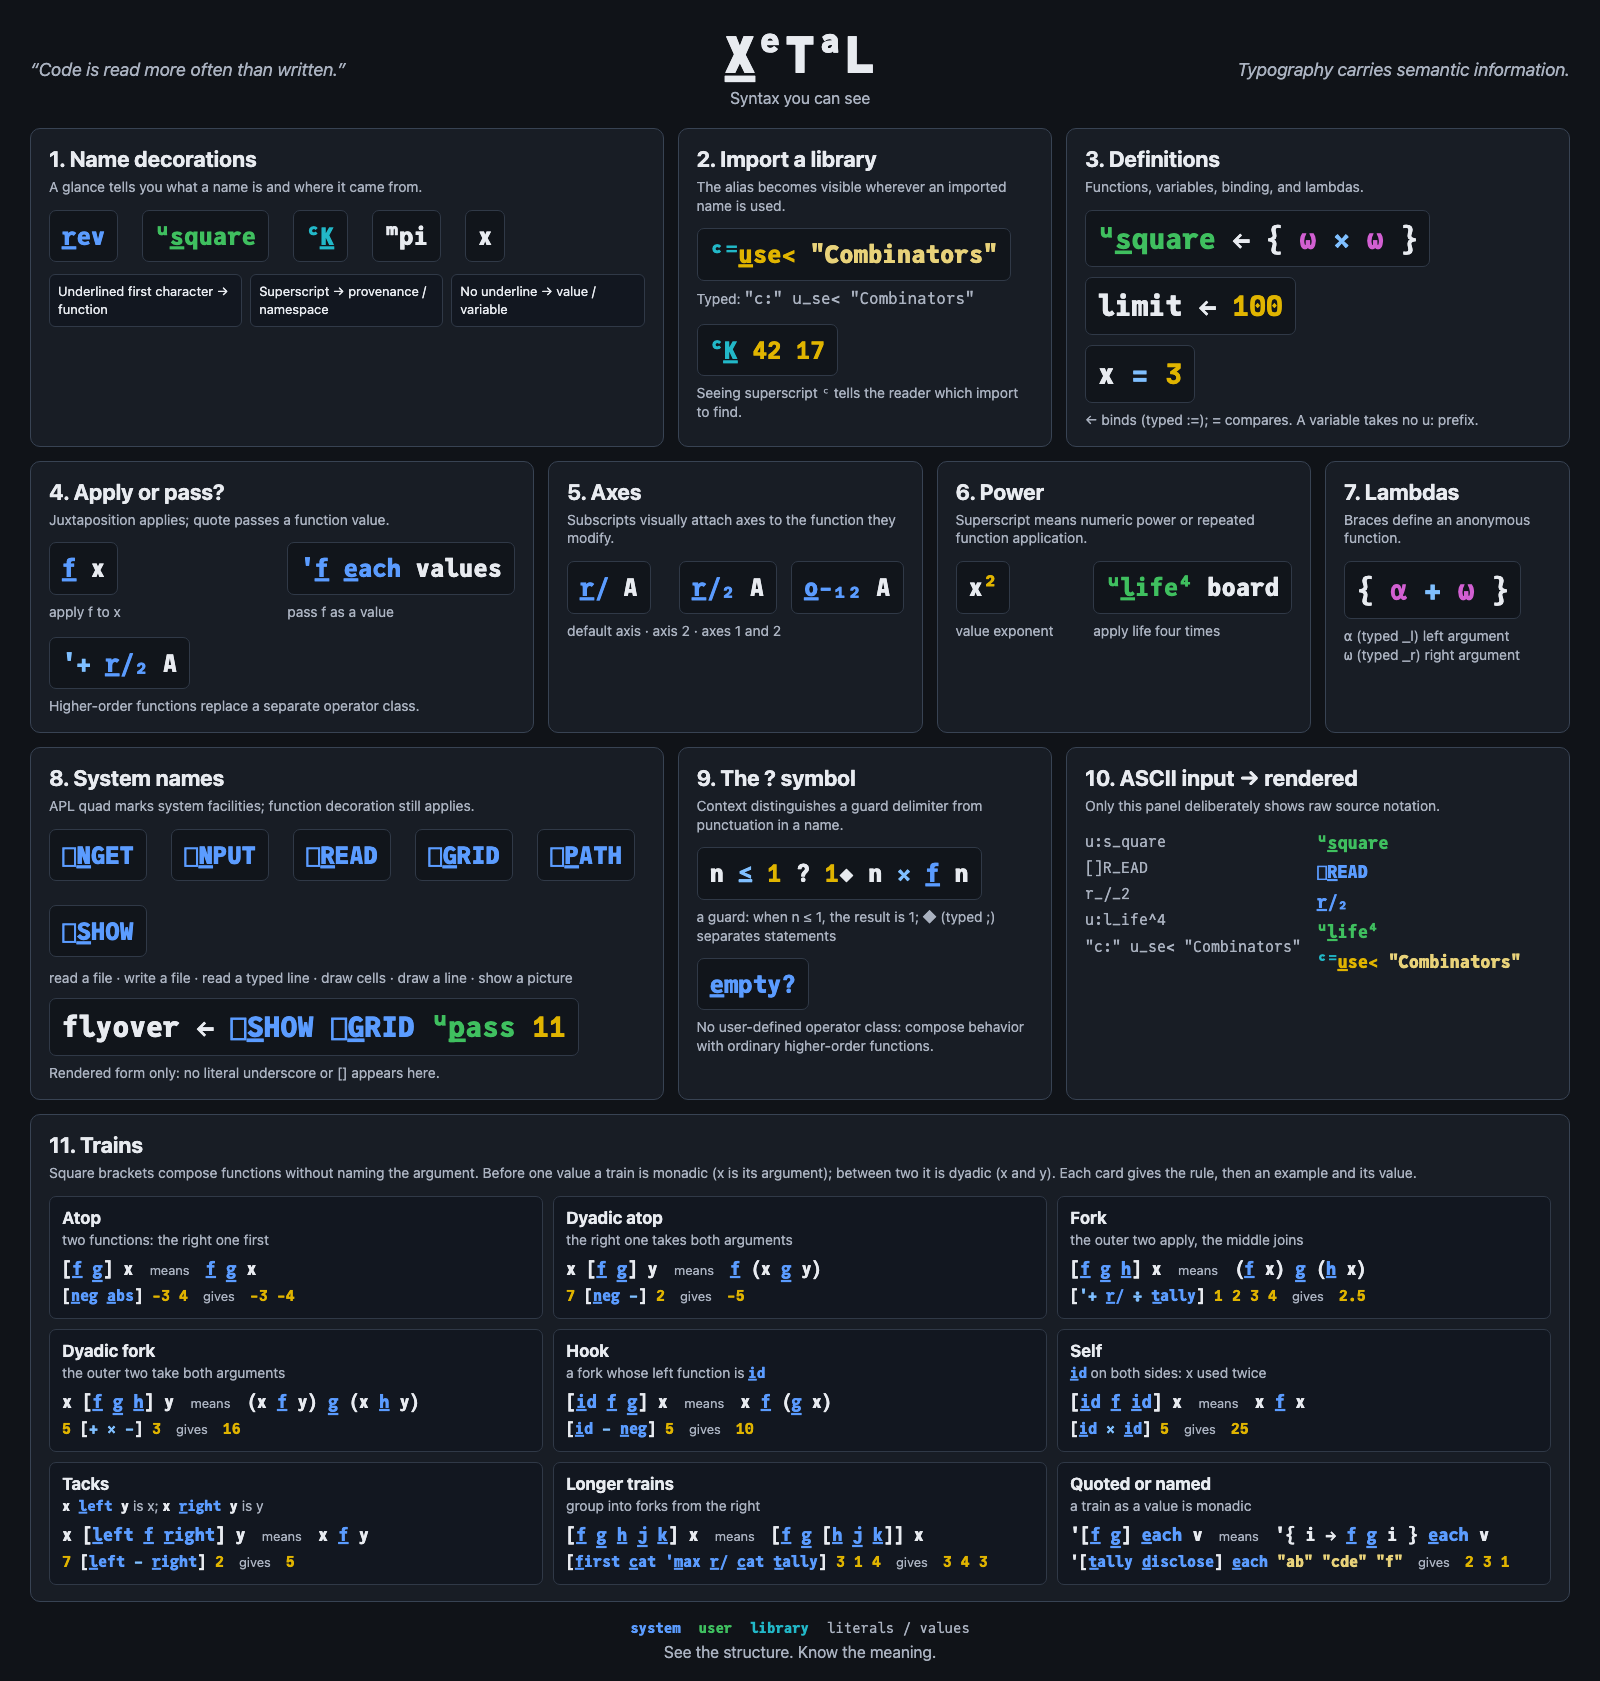
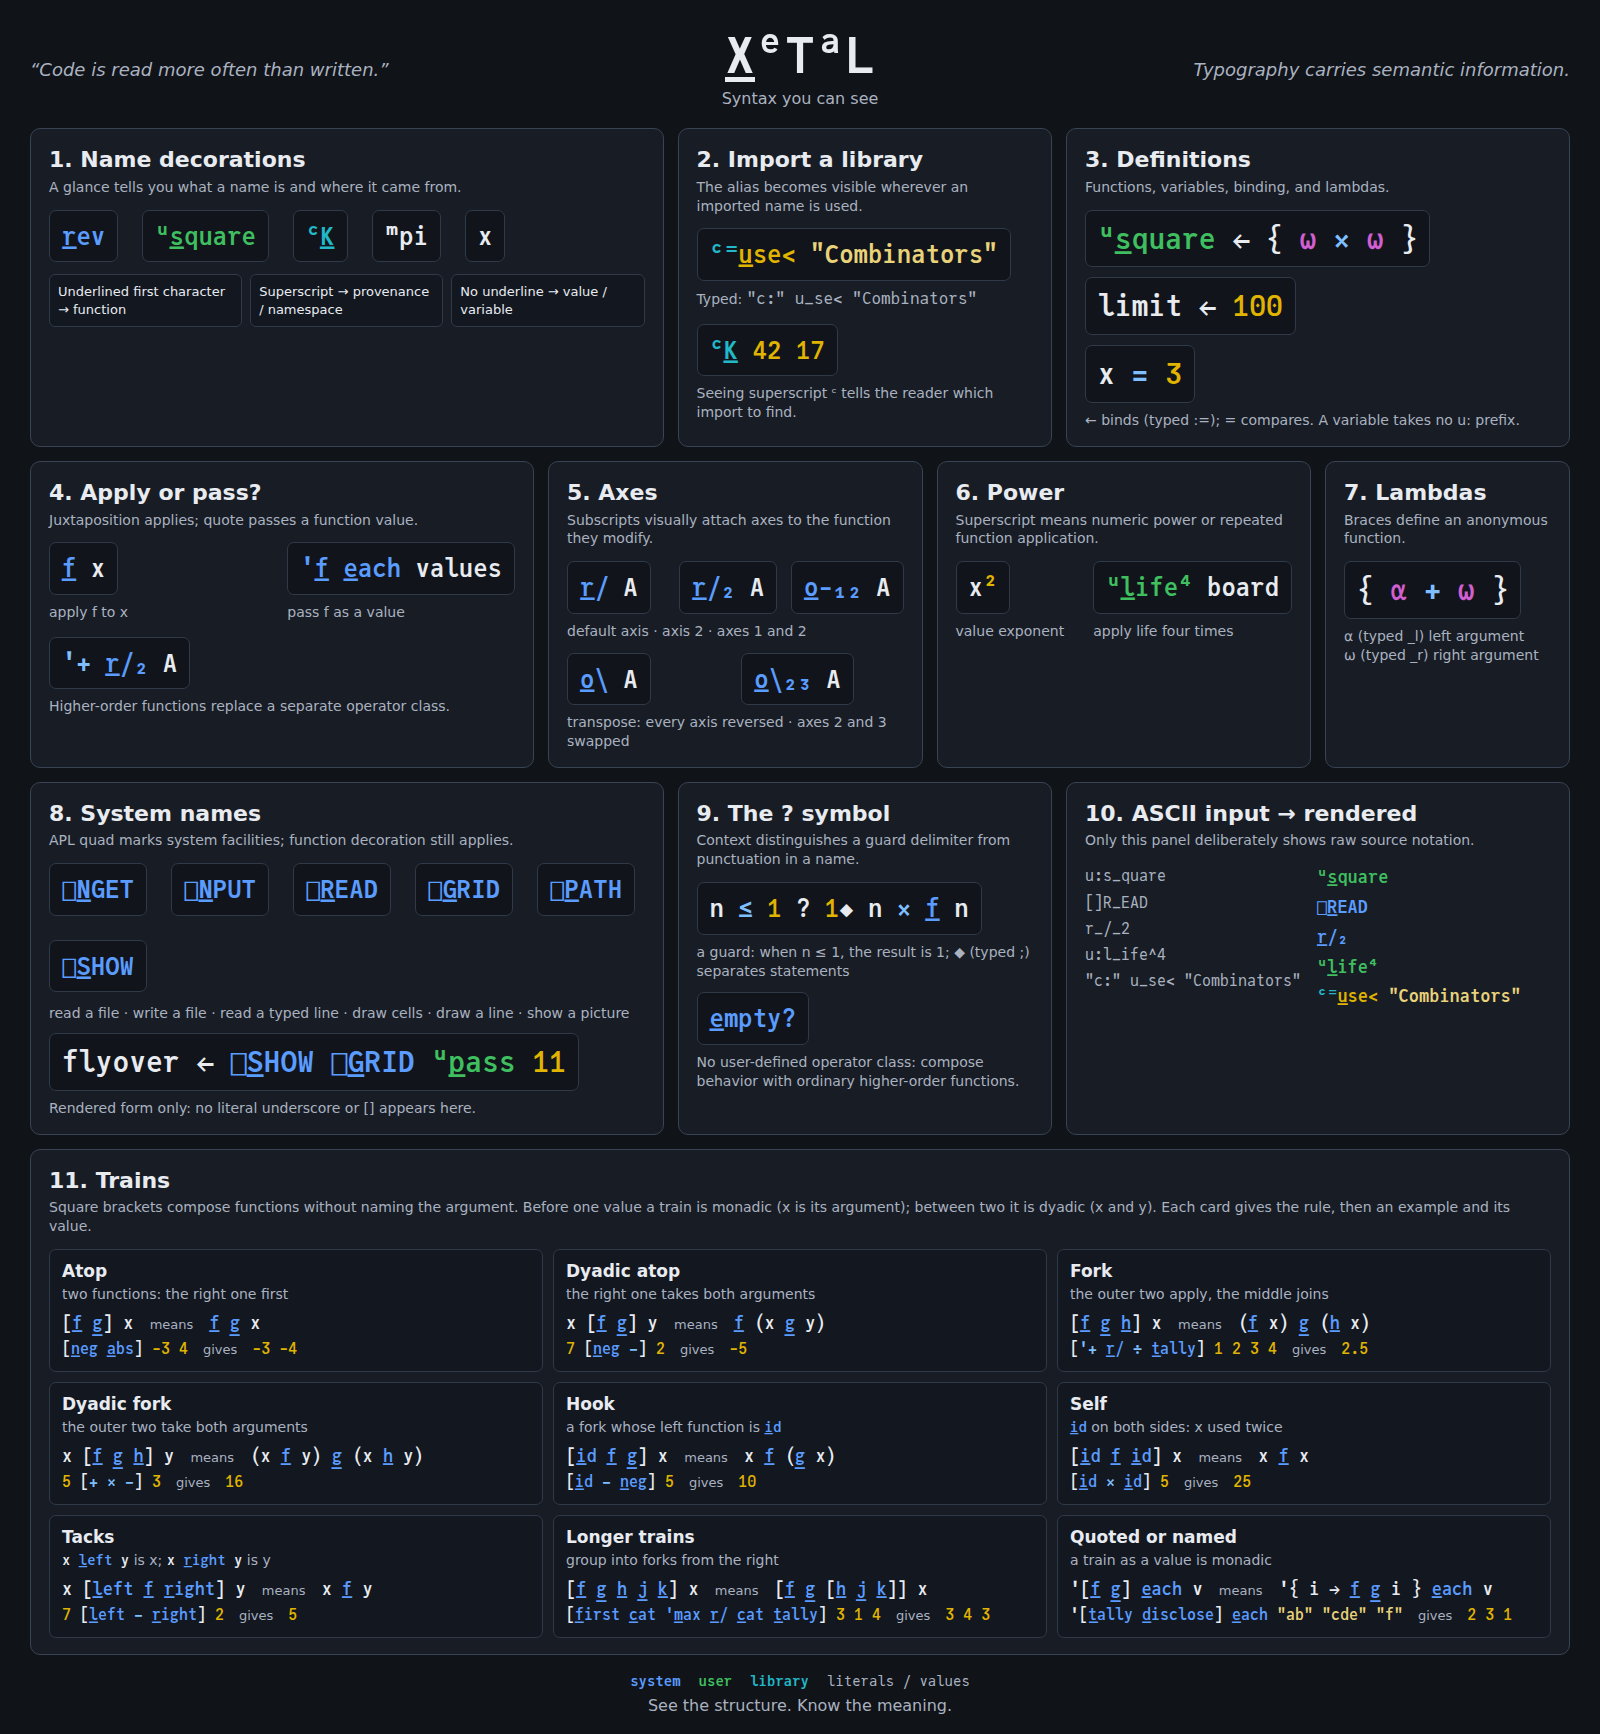
transpose docs: the tour, README, idioms and the syntax poster
- Tour (demos/tour.xtl and docs/literate/tour.org, in step): `o_\ m`,
  then the shapes after `o_\`, `o_\_23` and `3 1 2 t_ranspose` of a
  2 3 4 array, with a short paragraph. Goldens run-tour and
  run-echo-tour rebased on purpose: only the new lines' output.
- docs/idioms.md: a Transpose row (APL2, Dyalog, J, BQN for a matrix,
  X_eTaL `o_\ a`); spec/integration/idioms.case runs it.
- README: transpose in the APL table and in Status.
- Syntax poster: panel 5 (Axes) gains `o_\ A` and `o_\_23 A`;
  images/xetal-syntax-poster.png regenerated with JuliaMono.
- scripts/poster.py: without ImageMagick 7 (`magick`), Pillow trims the
  capture's empty bottom the same way (IM6's -trim would cut every
  edge). pages/ is rebuilt by whoever merges.
- CHANGES entry.

Claude-Session: https://claude.ai/code/session_01QTyKbB5xUqZ5r1CaJ4TTpw

diff --git a/scripts/poster/xetal-syntax-poster/index.html b/scripts/poster/xetal-syntax-poster/index.html
@@ -34,7 +34,7 @@ footer{grid-column:1/-1;text-align:center;color:var(--dim);padding-top:4px}.lege
 <div class="two"><div><span class="sample code xetal-placeholder" data-source='f_ x'></span><div class="note">apply f to x</div></div><div><span class="sample code xetal-placeholder" data-source='&#39;f_ e_ach values'></span><div class="note">pass f as a value</div></div></div>
 <div style="margin-top:15px"><span class="sample code xetal-placeholder" data-source='&#39;+ r_/_2 A'></span></div><div class="note">Higher-order functions replace a separate operator class.</div></section>
 
-<section class="panel p5"><h2>5. Axes</h2><div class="sub">Subscripts visually attach axes to the function they modify.</div><div class="three"><div><span class="sample code xetal-placeholder" data-source='r_/ A'></span></div><div><span class="sample code xetal-placeholder" data-source='r_/_2 A'></span></div><div><span class="sample code xetal-placeholder" data-source='o_-_12 A'></span></div></div><div class="note">default axis · axis 2 · axes 1 and 2</div></section>
+<section class="panel p5"><h2>5. Axes</h2><div class="sub">Subscripts visually attach axes to the function they modify.</div><div class="three"><div><span class="sample code xetal-placeholder" data-source='r_/ A'></span></div><div><span class="sample code xetal-placeholder" data-source='r_/_2 A'></span></div><div><span class="sample code xetal-placeholder" data-source='o_-_12 A'></span></div></div><div class="note">default axis · axis 2 · axes 1 and 2</div><div class="two" style="margin-top:12px"><div><span class="sample code xetal-placeholder" data-source='o_\ A'></span></div><div><span class="sample code xetal-placeholder" data-source='o_\_23 A'></span></div></div><div class="note">transpose: every axis reversed · axes 2 and 3 swapped</div></section>
 
 <section class="panel p6"><h2>6. Power</h2><div class="sub">Superscript means numeric power or repeated function application.</div><div class="two"><div><span class="sample code xetal-placeholder" data-source='x^2'></span><div class="note">value exponent</div></div><div><span class="sample code xetal-placeholder" data-source='u:l_ife^4 board'></span><div class="note">apply life four times</div></div></div></section>
 

diff --git a/scripts/poster.py b/scripts/poster.py
@@ -95,13 +95,28 @@ def trimmed():
     trims the empty bottom, keeping a margin."""
     magick = shutil.which("magick")
     if magick is None:
-        print("poster: no ImageMagick; the picture keeps its empty bottom")
+        trimmed_by_pillow()
         return
     subprocess.run(
         [magick, str(PICTURE), "-define", "trim:edges=south", "-trim", "+repage",
          "-gravity", "south", "-background", "#101318", "-splice", "0x20", str(PICTURE)],
         check=True,
     )
+
+
+def trimmed_by_pillow():
+    """Without ImageMagick 7, Pillow (where installed) trims the empty
+    bottom the same way: the full width kept, a 20 pixel margin."""
+    try:
+        from PIL import Image, ImageChops
+    except ImportError:
+        print("poster: no ImageMagick or Pillow; the picture keeps its empty bottom")
+        return
+    image = Image.open(PICTURE).convert("RGB")
+    background = Image.new("RGB", image.size, image.getpixel((0, image.height - 1)))
+    box = ImageChops.difference(image, background).getbbox()
+    if box:
+        image.crop((0, 0, image.width, min(image.height, box[3] + 20))).save(PICTURE)
 
 
 def main():

diff --git a/README.md b/README.md
@@ -81,6 +81,7 @@ At a glance, versus classic APL:
 | Character set       | APL glyphs                   | ASCII source; Unicode/LaTeX for display |
 | Function vs value   | fixed glyph identity         | an underlined letter in the name       |
 | Axis specification  | separate glyphs / brackets   | subscript digits, e.g. `o_-_2`         |
+| Transpose           | the transpose glyph          | `o_\ A`, `2 1 3 t_ranspose A`          |
 | Operators           | `/` `\` `.` etc.             | ordinary curried functions: `'+ r_/ A` |
 | Typing              | dynamic                      | static, inferred (Hindley-Milner)      |
 | Ambiguous syntax    | resolved by fixed rules      | rejected with an explanation           |
@@ -164,7 +165,8 @@ power), search, order and random built-ins, rotate, reverse and axis
 subscripts on any function, function power (`f_^3`), the Life
 one-liner, trains (forks, atops, hooks with the tacks, and errors
 that say what the train means where it fails), replicate (`r_eplicate`),
-encode and decode, catenate along any axis (`c_at_2`), whole-array match
+encode and decode, catenate along any axis (`c_at_2`), transpose (`o_\`
+reverses the axes, `t_ranspose` permutes them, `o_\_23` swaps two), whole-array match
 (`m_atch`), nested arrays (string strands, `e_nclose`, `d_isclose`,
 `p_artition`, `m_ap`, printed as APL2's DISPLAY, `d_isplay`, `--box`,
 `--ascii`), files, the keyboard and numbers as text (`[]N_GET`,

diff --git a/docs/idioms.md b/docs/idioms.md
@@ -67,6 +67,7 @@ and names are words where APL has glyphs; the source is plain ASCII.
 | Count | <code>&#8593;&#9076;V</code> | <code>&#8802;v</code> | <code># v</code> | <code>&#8800;v</code> | <code>t_ally v</code> |
 | Reverse | <code>&#9021;V</code> | <code>&#9021;v</code> | <code>&#124;. v</code> | <code>&#9021;v</code> | <code>r_ev v</code> |
 | Rotate | <code>1&#9021;V</code> | <code>1&#9021;v</code> | <code>1 &#124;. v</code> | <code>1&#9021;v</code> | <code>1 o_- v</code> |
+| Transpose | <code>&#9033;A</code> | <code>&#9033;a</code> | <code>&#124;: a</code> | <code>&#9033;a</code> (a matrix) | <code>o_\ a</code> |
 | Outer product | <code>A&#8728;.&#215;B</code> | <code>a&#8728;.&#215;b</code> | <code>a */ b</code> | <code>a &#215;&#8988; b</code> | <code>a '* t_able b</code> |
 | Inner product | <code>A+.&#215;B</code> | <code>a+.&#215;b</code> | <code>a +/ .* b</code> | <code>a +&#733;&#8728;&#215;&#9097;1&#8255;&#8734; b</code> | <code>a '+ '* i_nner b</code> |
 | Each | <code>F&#168;V</code> | <code>f&#168;v</code> | <code>f"0 v</code> | <code>F&#168;v</code> | <code>'f_ e_ach v</code> |

diff --git a/CHANGES.md b/CHANGES.md
@@ -12,6 +12,7 @@ saga planning and reordering, `release` milestone release,
 
 ## 2026-10-02
 
+- 16:55 `docs` Transpose in the tour (demo and literate), README, idioms (beside APL's transpose) and the syntax poster's Axes panel; run-tour and run-echo-tour goldens rebased on purpose (only the new lines). `scripts/poster.py` trims its capture with Pillow where ImageMagick 7 is missing.
 - 16:21 `chore` Merge PR #34.
 - 16:11 `plan` X_eTaL-games' terminal request: step cli-terminal-feature next (a default-on `terminal` feature so `xetal-cli` builds for wasm32-wasip1), Saga 25 the terminal right after Saga 10 (a sw-tos-style browser terminal replacing `window.prompt`, input by `Atomics.wait` in the worker, named screen-control quads, decision QD6).
 - 16:08 `feat` Float literals with an exponent (S8, ask D4 from X_eTaL-demos): `1.5e-7`, `6.02e23`, `2E3`; this also mends the formatter's round trip for very small and very large Floats, which it already wrote as `1e-7`.
